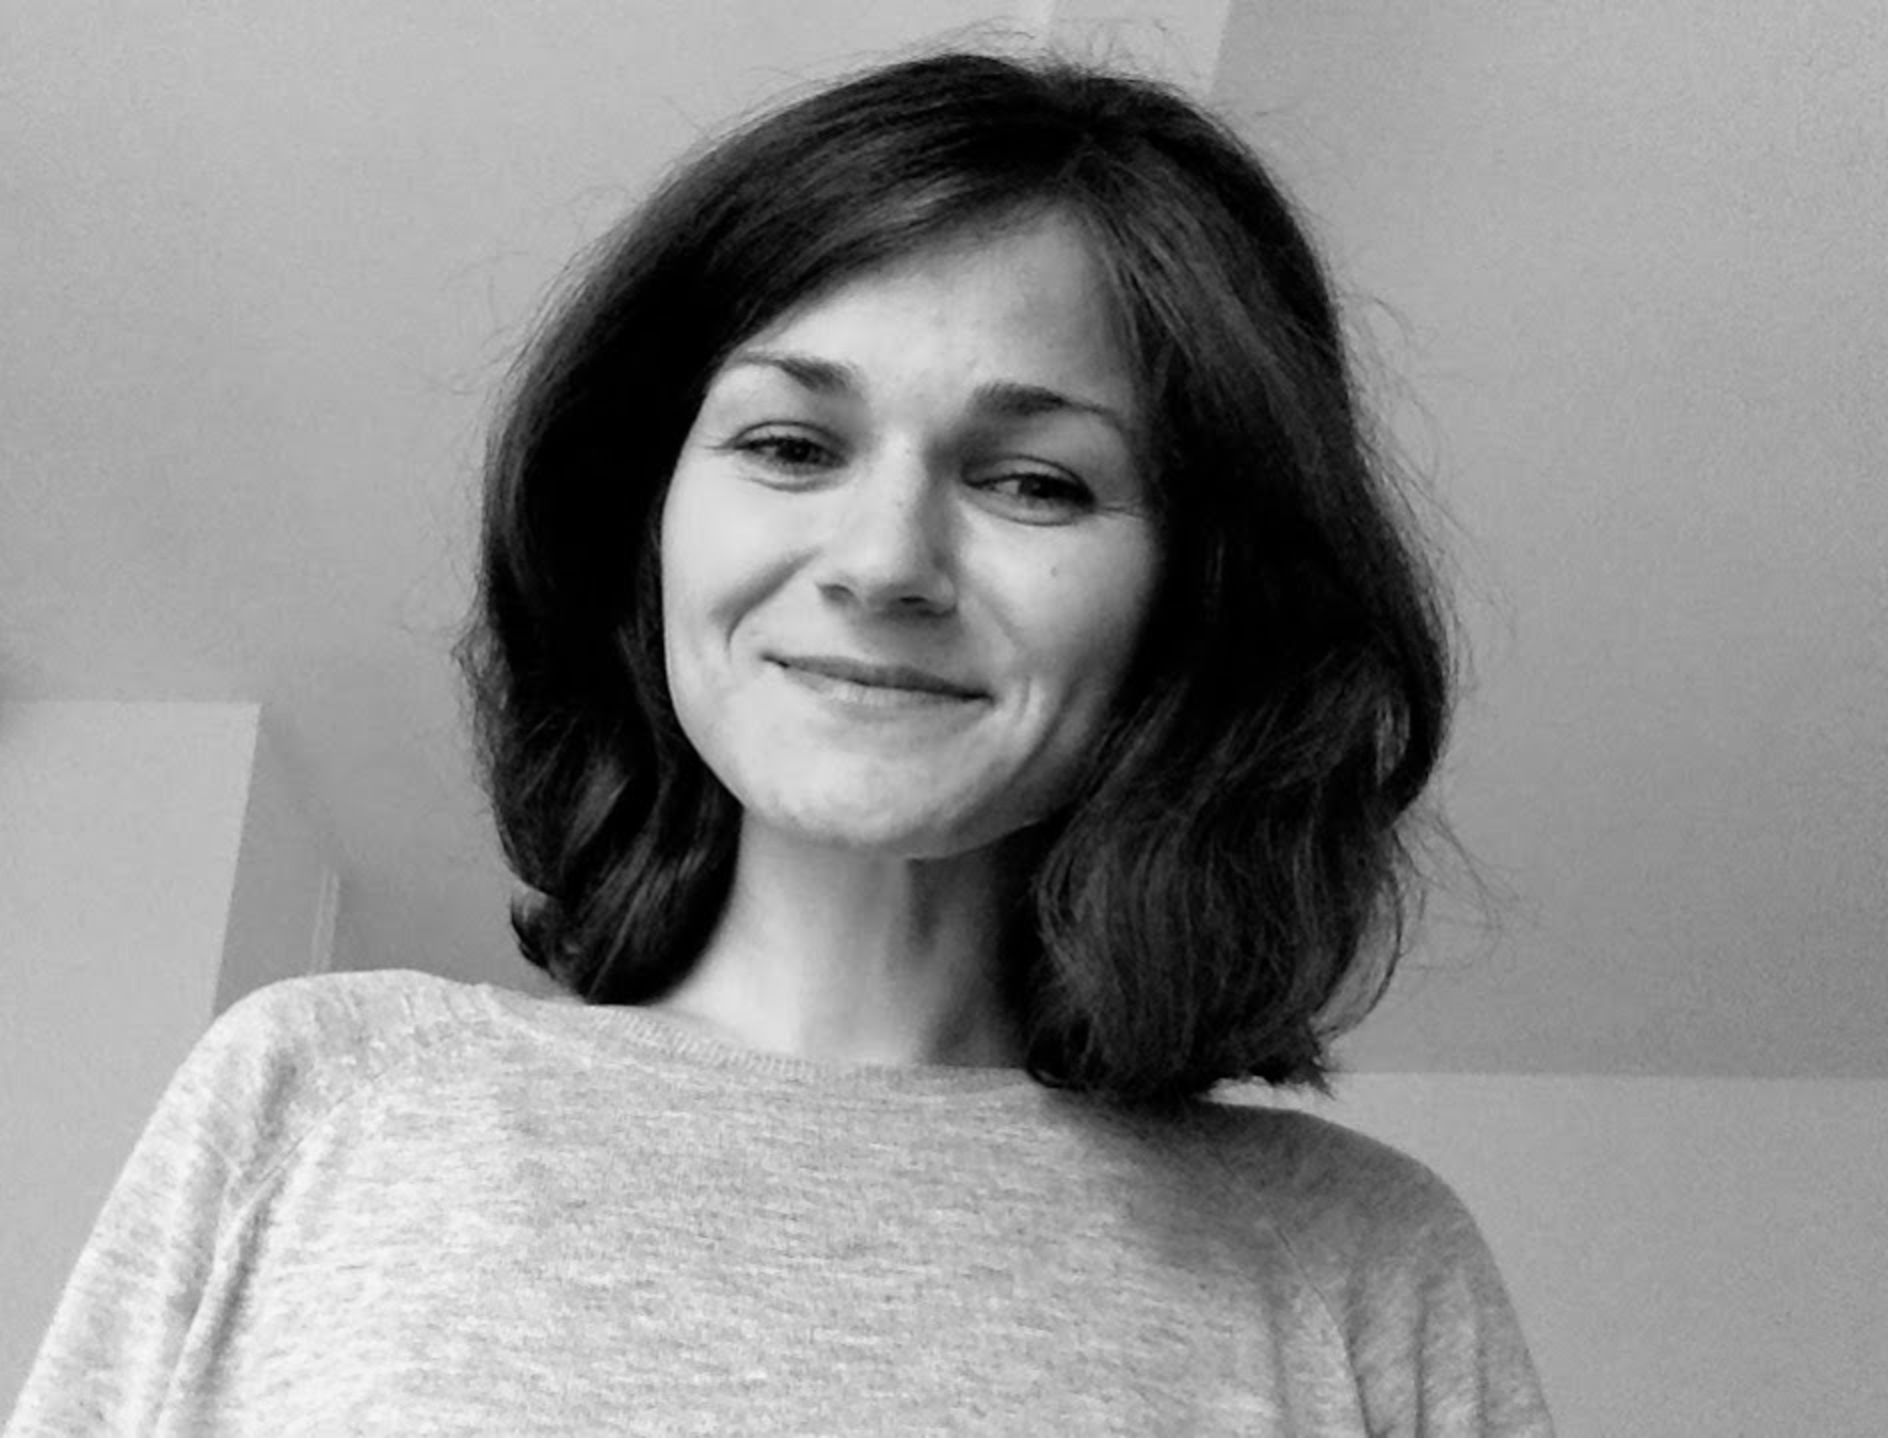
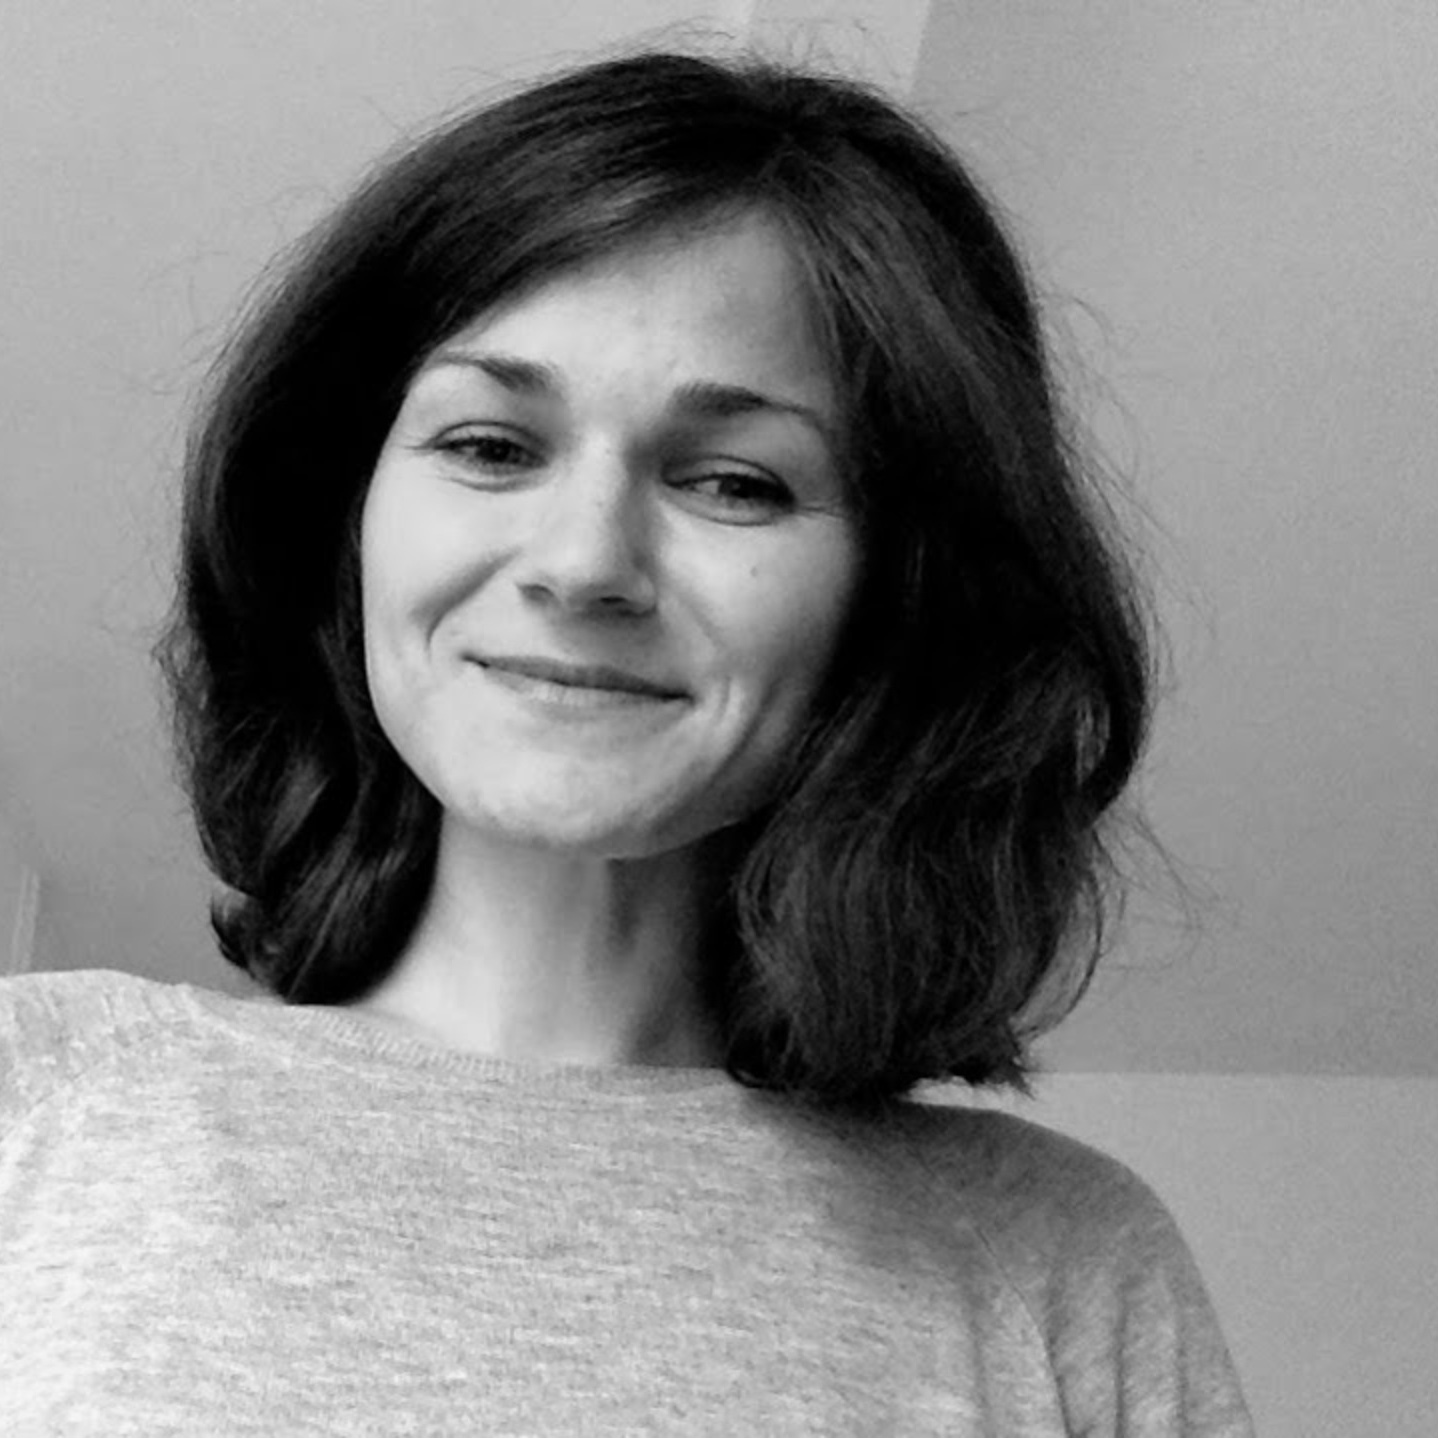
Adjust speaker images + hover effect

diff --git a/src/components/Speaker.jsx b/src/components/Speaker.jsx
@@ -6,15 +6,16 @@ import "./speaker.scss";
 export default props => {
   return (
     <section className="speaker">
-      <Img
-        fluid={props.image.node.image.fluid}
-        alt=""
-        className="speaker-img"
-      />
+      <figure className="speaker-img">
+        <div className="speaker-img-inner">
+          <Img fluid={props.image.node.image.fluid} alt="" />
+        </div>
+      </figure>
       <div className="speaker-info">
         <div className="speaker-info-inner">
           <h2 className="speaker-name">
-            {props.data.firstname}<br />
+            {props.data.firstname}
+            <br />
             {props.data.lastname}
           </h2>
           <span className="speaker-title">{props.data.title}</span>

diff --git a/src/components/speaker.scss b/src/components/speaker.scss
@@ -34,6 +34,12 @@
 
 .speaker-img {
   @include clip-hex(30%);
+  margin: 0;
+}
+.speaker-img-inner {
+  display: block;
+  transition-duration: 0.3s;
+  transition-delay: 0.1s;
 }
 
 .speaker-info {
@@ -93,9 +99,11 @@
 
 .speaker:hover .speaker-img {
   @include breakpoint(sm) {
-    @include clip-hex(20%);
     transform: translateY(-5%) translateX(5%);
   }
+}
+.speaker:hover .speaker-img-inner {
+  transform: scale(1.1);
 }
 .speaker:hover .speaker-info {
   @include breakpoint(sm) {
